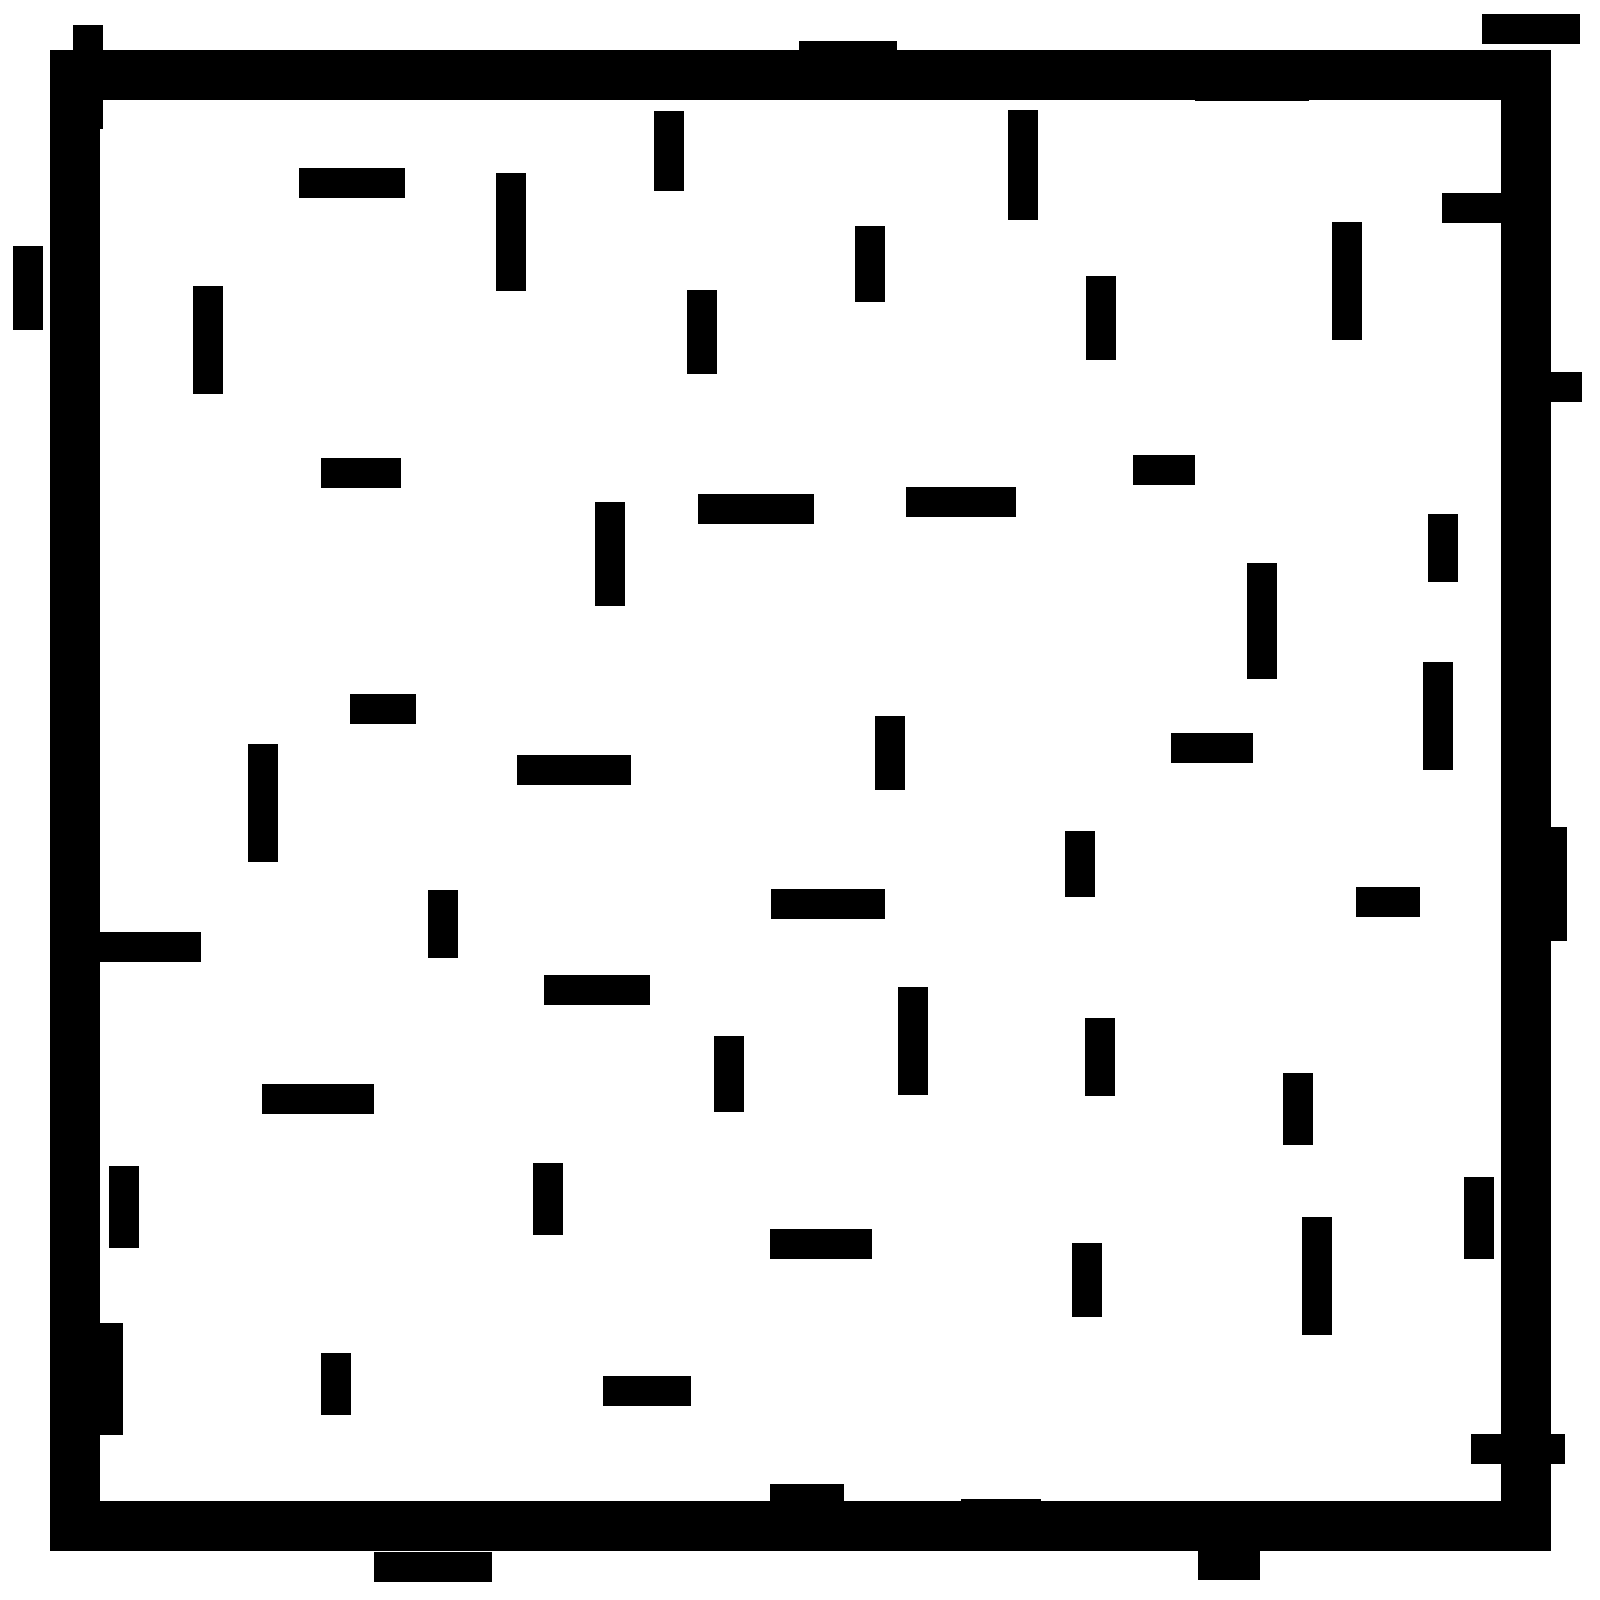
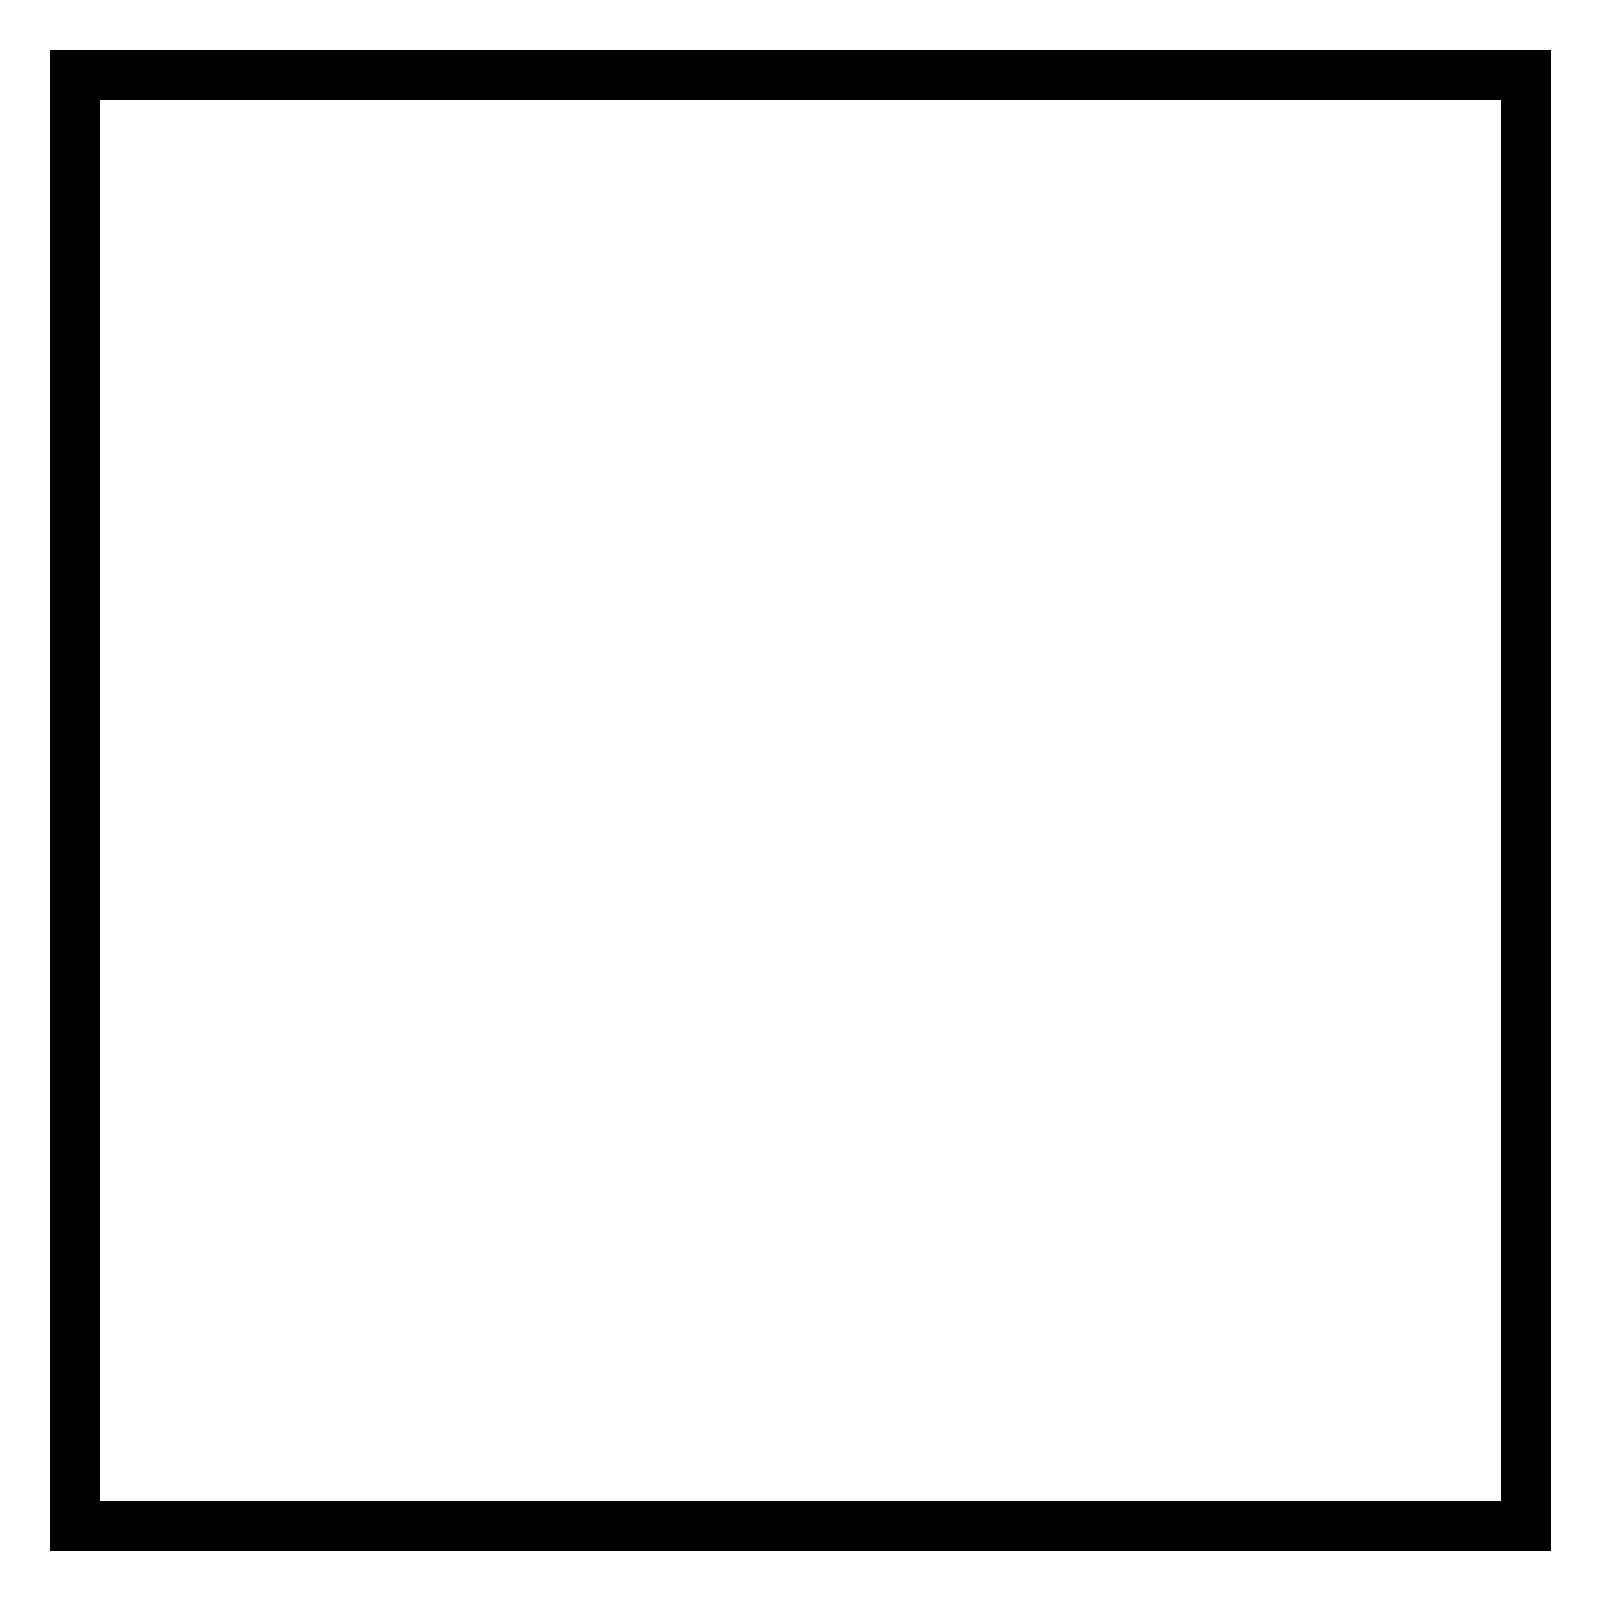
Adding empty map (now without obstacles) and generator of random targets. Empty map not loading yet.

diff --git a/MPPI_Marcin/mppi_planner.py b/MPPI_Marcin/mppi_planner.py
@@ -22,6 +22,8 @@ NUM_TRAJECTORIES_TO_PLOT = Settings.NUM_TRAJECTORIES_TO_PLOT
 
 from MPPI_Marcin.controller_mppi_tf import controller_mppi_tf
 
+from MPPI_Marcin.TargetGenerator import TargetGenerator
+
 class MPPI_F1TENTH:
     """
     Example Planner
@@ -41,6 +43,8 @@ class MPPI_F1TENTH:
         self.mppi = controller_mppi_tf()
 
         self.Render = Render()
+
+        self.TargetGenerator = TargetGenerator()
 
     def render(self, e):
         self.Render.render(e)
@@ -63,6 +67,8 @@ class MPPI_F1TENTH:
         pose_y = ego_odom['pose_y']
         pose_theta = ego_odom['pose_theta']
 
+        target_positions = self.TargetGenerator.step((pose_x, pose_y), )
+
         scans = np.array(ranges)
         # Take into account size of car
         # scans -= 0.3
@@ -77,6 +83,7 @@ class MPPI_F1TENTH:
         largest_gap_middle_point, largest_gap_middle_point_distance, largest_gap_center = find_largest_gap_middle_point(pose_x, pose_y, pose_theta, distances, angles)
 
         target = np.vstack((largest_gap_middle_point, lidar_points))
+        target = np.vstack((target_positions, lidar_points))
         s = np.array((pose_x, pose_y, pose_theta))
         speed, steering_angle = self.mppi.step(s, target=target)
 

diff --git a/MPPI_Marcin/TargetGenerator.py b/MPPI_Marcin/TargetGenerator.py
@@ -1,0 +1,35 @@
+import numpy as np
+
+
+class TargetGenerator:
+    def __init__(self):
+
+        self.current_target = None
+
+        self.tolerance = 1      # m
+
+        self.x_lower_bound = -10.
+        self.x_upper_bound = 10.
+        self.y_upper_bound = 10.
+        self.y_lower_bound = -10.
+
+
+    def generate_random_target_position(self):
+        target_x = np.random.uniform(self.x_lower_bound, self.x_upper_bound)
+        target_y = np.random.uniform(self.y_lower_bound, self.y_upper_bound)
+        return np.array([[target_x, target_y]])
+
+
+    def step(self, pos):
+
+        if (
+                self.current_target is None
+                or
+                np.linalg.norm(pos-self.current_target) < self.tolerance
+        ):
+            self.current_target = self.generate_random_target_position()
+
+        return self.current_target
+
+
+
